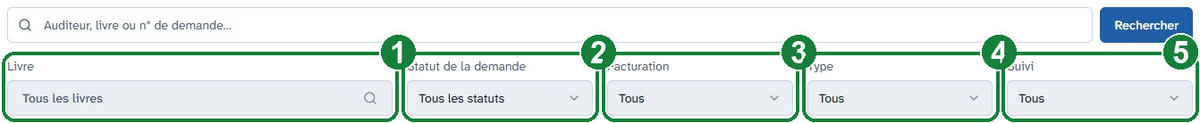
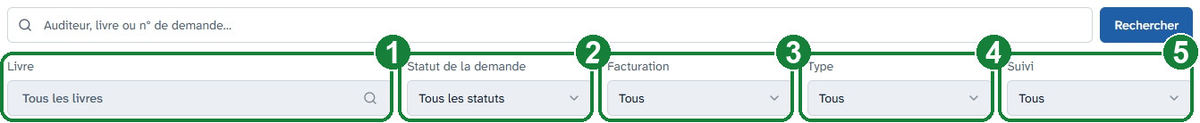
Mode d'emploi : les cadres verts ne mordent plus sur les étiquettes des filtres
Les cinq filtres des demandes ne sont séparés que de 16 px : avec la même
marge des deux côtés, le trait gauche de chaque cadre finissait à 2 px de la
première lettre de son étiquette, et l'image réduite la recouvrait à moitié
(« Facturation », « Type », « Suivi »). Une option `rangee` dans la spec de
capture donne au cadre plus d'air à gauche et le colle au bord droit du champ,
où il n'y a pas de texte. Capture demandes-03 refaite.

diff --git a/scripts/annotate-aide-screenshots.py b/scripts/annotate-aide-screenshots.py
@@ -29,6 +29,16 @@ VERT = (22, 128, 58)      # le vert du feutre d'origine
 EPAISSEUR = 4
 RAYON = 14
 MARGE = 6                 # air entre le champ et son cadre
+
+# UNE RANGEE DE CHAMPS ETIQUETES (`rangee`, pose par la spec de la capture).
+# Les cinq filtres des demandes ne sont separes que de 16 px. Avec MARGE des
+# deux cotes, le trait gauche d'un cadre finissait a 2 px de la premiere
+# lettre de son etiquette : une fois l'image reduite, le « F » de
+# « Facturation » ou le « S » de « Suivi » se lisaient a moitie sous le vert.
+# A droite du champ il n'y a pas de texte, seulement sa propre bordure et son
+# chevron : le cadre s'y colle, et l'air ainsi gagne passe a gauche.
+MARGE_RANGEE_GAUCHE = 10
+MARGE_RANGEE_DROITE = 0
 TAILLE_NUMERO = 34
 POLICES = ['arialbd.ttf', 'segoeuib.ttf', 'DejaVuSans-Bold.ttf']
 
@@ -61,9 +71,11 @@ def dessiner(chemin_image, reperes):
 
     dessines = 0
     for repere in reperes:
-        x0 = max(0, repere['x'] - MARGE)
+        marge_g, marge_d = ((MARGE_RANGEE_GAUCHE, MARGE_RANGEE_DROITE)
+                            if repere.get('rangee') else (MARGE, MARGE))
+        x0 = max(0, repere['x'] - marge_g)
         y0 = max(0, repere['y'] - MARGE)
-        x1 = min(image.width - 1, repere['x'] + repere['w'] + MARGE)
+        x1 = min(image.width - 1, repere['x'] + repere['w'] + marge_d)
         y1 = min(image.height - 1, repere['y'] + repere['h'] + MARGE)
 
         # Un champ hors du cadrage rend un rectangle degenere (y1 <= y0), et
